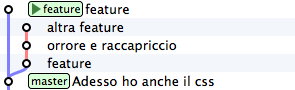
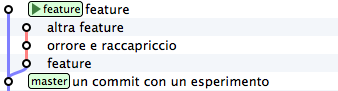
first cherry-pick on branch experiment; rebase has wrong images

Changed region(s): [[0.0, 0.0, 0.8237, 1.0]]

diff --git a/git.md b/git.md
@@ -390,7 +390,7 @@ Quando crei un'etichetta, se non specifichi un valore, git userà la chiave del 
 
 L'eliminazine di una variabile è ugualmente banale:
 
->git branch -d teddy
+>git branch -d teddy<br/>
 >git branch -d piccio
 
 
@@ -456,7 +456,7 @@ Ti domanderai anche perché mai git chiami quelle etichette `branch`. Il motivo 
 Guardalo nel concreto. Torna a `master` ed apporta qualche modifica.
 
 >git checkout master<br/>
->touch jquery.js<br/>
+>touch angular.js<br/>
 >git add angular.js<br/>
 >git commit -m "angular.js rocks" 
 
@@ -527,14 +527,24 @@ Bene. Tieni a mente questo modello. Adesso ti mostrerò uno dei comandi più fol
 
 Vediamolo subito con un esempio.
 
+> git checkout dev<br/>
+> git checkout -b experiment&nbsp;&nbsp;&nbsp;# esegue sia branch che checkout<br/>
+> touch experiment<br/>
+> git add experiment<br/>
+> git commit -m "un commit con un esperimento"<br/>
+
+![Alt tex1](img/cherry-pick-1.png)
+
+Ci interesserebbe applicare l'esperimento anche al ramo `master`
+
 > git checkout master<br/>
-> git cherry-pick dev
+> git cherry-pick experiment
 
-![Alt tex1](img/cherry-pick.png)
+![Alt tex1](img/cherry-pick-2.png)
 
-git ha applicato il cambiamento introdotto dal commit `dev` (la linea evidenziata in rosso) al commit `master`, e poi ha fatto un `commit`. `cherry-pick` "coglie" il `commit` che gli indichi e lo applica sul `commit` dove ti trovi.
+git ha applicato il cambiamento introdotto dal commit `dev` (la linea evidenziata in rosso xxx) al commit `master`, e poi ha fatto un `commit`. `cherry-pick` "coglie" il `commit` che gli indichi e lo applica sul `commit` dove ti trovi.
 
-Se guardi sul `file system`, infatti, ti accorgi che git ha aggiunto il file `style.css`
+Se guardi sul `file system`, infatti, ti accorgi che git ha aggiunto il file `style.css` xxxx
 
 Inizi a immaginare che giocolerie potrai fare con questo strumento?<br/>
 Voglio darti qualche spunto.
@@ -576,7 +586,7 @@ Inizia a tonare indietro nel tempo. Riposizionati su `master`
 
 e sposta il `feature` indietro, nella posizione dove lo avevi creato prima di fare i `commit`
 
->git branch --force feature-1 
+>git branch --force feature 
 
 ![Alt tex1](img/bug-2.png)
 
@@ -587,7 +597,7 @@ Non ti resta che prenderti, con `cherry-pick` i soli `commit` che ti interessano
 
 ![Alt tex1](img/bug-3.png)
 
->git cherry-pick 8f41bb8&nbsp;&nbsp;&nbsp;# prendo ""altra feature"
+>git cherry-pick 8f41bb8&nbsp;&nbsp;&nbsp;# prendo "altra feature"
 
 ![Alt tex1](img/bug-4.png)
 
@@ -606,6 +616,45 @@ Urca! L'impressione è che git abbia riscritto la storia eliminando un `commit` 
 Infatti, molti raccontano che git sia capace di riscrivere la storia e che questo suo comportamento sia estremamente pericoloso. Ecco: tu hai visto che non è così; git è estremamente conservativo e quando ti permette di manipolare i `commit` non fa altro che agire *in append*, costruendo *nuovi* rami. 
 
 
+### Spostare un ramo di sviluppo
+
+Voglio farti vedere un'altra magia del `cherry-pick`, per dissipare il velo di mistero di cui è inspiegabilmente circondato il comando `rebase`.
+
+Riprendi il tuo `repository` e torna a sviluppare i tuoi css sul ramo `dev`
+
+![Alt tex1](img/rebase-1.png)
+
+>git checkout dev<br/>
+>echo "a { color:red; }" >> style.css<br/>
+>git commit -am "i link sono rossi"
+>&nbsp;&nbsp;&nbsp;# commit -am è uno shortcut per git add + commit
+
+![Alt tex1](img/rebase-2.png)
+
+Ottimo. I tuoi css sono perfetti. Peccato che il ramo `dev` sia rimasto un po' indietro rispetto alla `feature`. Del resto, cosa potevi fare? Quando hai staccato il ramo `dev` il ramo `feature` ancora non esisteva.
+
+Certo, se esistesse il modo di riapplicare le modifiche dei css al ramo `feature`… Cioè, se si potesse spostare il ramo dev *sopra* feature…
+
+Ti torna in mente `cherry-pick`. Dai, è un caso come quello precedente: solo che invece di viaggiare nel passato devi avere un po' di fantasia e immaginare di viaggiare nel futuro. Riscrivi la storia facendo come se i commit di `dev` siano stati scritti *dopo* la creazione di `feature`. 
+
+Vai su `feature` e spostaci il ramo `dev`. Come sempre, avrai bisogno dei valori delle chiavi dei 2 commit di dev
+
+>git log dev --oneline<br/>
+>**eaca9a5** i link sono rossi<br/>
+>**6bd333b** Adesso ho anche il css<br/>
+>84b2d68 Commit B, il mio secondo commit<br/>
+>eafbb9f commit A, il mio primo commit<br/>
+
+>git checkout feature<br/>
+>git branch -f dev<br/>
+>git checkout dev
+
+![Alt tex1](img/rebase-3.png)
+
+Ok. Adesso `dev` è insieme a `feature`. Se ci riporti i 2 `commit` originari, farai come se questi fossero stati creati *dopo* la creazione di `feature`.
+
+>git cherry-pick 6bd333b<br/>
+>git cherry-pick eaca9a5<br/>
 
 
 * il merge
